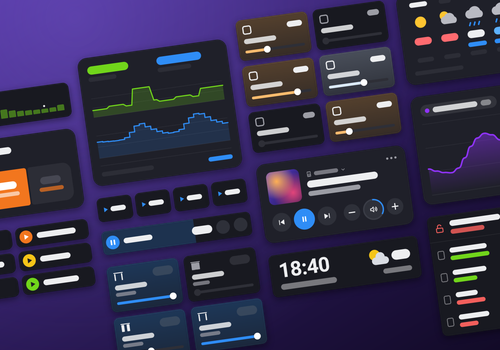
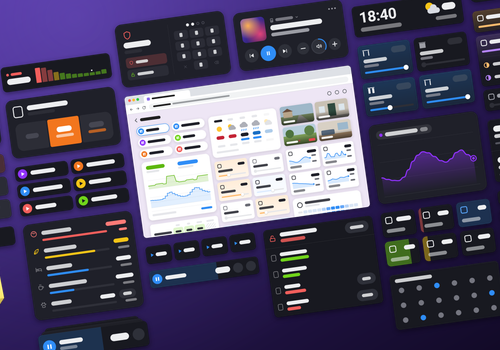
App Store images: a web dashboard in a browser, and more widgets
The collage gets a drawn browser window of a web dashboard in its middle
(light among the dark cards, so it reads as a web page even at 250 px),
with nine widgets of its own, and 31 widgets in all, up from 12.
dev/app-images.json's columns take rows of cards and the browser item.

diff --git a/test/app-images.test.ts b/test/app-images.test.ts
@@ -3,13 +3,18 @@ import { describe, expect, it } from 'vitest';
 
 // The App Store images are rendered from the widget previews by `npm run app-images` (scripts/app-images.mjs).
 const config = JSON.parse(readFileSync('dev/app-images.json', 'utf8'));
+// A column's item: a widget id, a row of ids, or the browser window with columns of its own (and maybe its own theme).
+type Item = string | string[] | { browser: string[][], span?: number, theme?: string };
+const previews = (config.columns as Item[][]).flat().flatMap(item => typeof item === 'string' || Array.isArray(item)
+  ? [item].flat().map(id => ({ id, theme: config.theme }))
+  : item.browser.flat().map(id => ({ id, theme: item.theme ?? config.theme })));
 
 describe('app store images', () => {
   it('are made from widgets that have a preview, each once', () => {
-    const ids: string[] = config.columns.flat();
+    const ids = previews.map(p => p.id);
     expect(ids.length).toBeGreaterThan(0);
     expect(new Set(ids).size).toBe(ids.length);
-    for (const id of ids) expect(existsSync(`widgets/${id}/preview-${config.theme}.png`), id).toBe(true);
+    for (const { id, theme } of previews) expect(existsSync(`widgets/${id}/preview-${theme}.png`), id).toBe(true);
     expect(config.background.stops.length).toBeGreaterThanOrEqual(2);
   });
 

diff --git a/.claude/rules/renders.md b/.claude/rules/renders.md
@@ -10,7 +10,7 @@ paths:
 # Renders (app images, previews, screenshots, clips, showcases)
 
 - Renders run headless Edge through `scripts/headless.mjs` (`EDGE`, `HEADLESS`, `freshProfile()`, `edge(args, {virtualTime})`: default `--virtual-time-budget=4000`, `null` for none; the icon download). They show made-up data on a fixed clock: **never put real device names or readings in them.** Every render is byte-identical between runs, except the live electricity chart's antialiasing (the electricity screenshot and the Home, Energy and Kitchen showcases). An endless CSS animation isn't (its phase varies): `screenshots.html` and `showcase.html` hold the Keypad's pulsing dot still (`.kp-dot.next`); do the same for a new one.
-- `npm run app-images` (wk-067): the three App Store PNGs (`assets/images/`, 250×175, 500×350, 1000×700) from the widget previews, with sharp, no Edge (`scripts/app-images.mjs`). `dev/app-images.json` sets the widgets and their order (`columns`), the previews' `theme`, `tilt`, `columnWidth` (a fraction of the image), `gap`/`stagger` (preview px) and the background: a gradient in the brand colour `#2A1958` (`stops`, evenly spaced, at a CSS-like `angle`) with a soft radial `glow` (centre and radius as fractions), drawn as an SVG by sharp. It replaced a blurred photo (`dev/hero.webp`) at the user's request (2026-10-18). Each card is cut to its opaque box (alpha ≥ 250, not `trim()`, which takes the shadow) plus 64 px of shadow and scaled to 800 px wide (≤ 1), the columns are centred and staggered, the layer rotated at full size, then scaled down once per size; it throws rather than scale a preview up. Same inputs, same bytes. `npm run previews` re-renders them when it rendered a preview they use. `test/app-images.test.ts` checks the config and the sizes.
+- `npm run app-images` (wk-067): the three App Store PNGs (`assets/images/`, 250×175, 500×350, 1000×700) from the widget previews, with sharp, no Edge (`scripts/app-images.mjs`). `dev/app-images.json` sets the widgets and their order (`columns`: each item a widget id, a row of ids side by side, or `{browser: [[ids]], span, theme}`, the drawn browser window of a web dashboard, `span` columns wide (2), 16:10, with those columns of cards on Plum, cut off at the bottom; its chrome drawn like the previews' text, bars and no words, colours from `dev/web-showcase.html`), the previews' `theme`, `tilt`, `columnWidth` (a fraction of the image), `gap`/`stagger` (preview px) and the background: a gradient in the brand colour `#2A1958` (`stops`, evenly spaced, at a CSS-like `angle`) with a soft radial `glow` (centre and radius as fractions), drawn as an SVG by sharp. It replaced a blurred photo (`dev/hero.webp`) at the user's request (2026-10-18). The browser and more widgets (23 readable, 31 placed) came at the user's request (2026-10-25): the browser light among the dark cards, so it reads as a web page even in the 250 px image; a column is as wide as its widest item, and a row's cards line up toward the column's middle, so the rows above and below the browser close up to it. Homey's guidelines (read 2026-10-25) forbid the Homey logo, name or device, not text or UI. Each card is cut to its opaque box (alpha ≥ 250, not `trim()`, which takes the shadow) plus 64 px of shadow and scaled to 800 px wide (≤ 1), the columns are centred and staggered, the layer rotated at full size, then scaled down once per size; it throws rather than scale a preview up. Same inputs, same bytes. `npm run previews` re-renders them when it rendered a preview they use. `test/app-images.test.ts` checks the config and the sizes.
 - `npm run previews [-- qa-dark …]`: the widget preview PNGs from `dev/widget-previews.html` (the "Widget Previews" Claude Design project; `?p=elec-dark` shows one frame), plus the README's `docs/previews/<widget>-<light|dark>.png` (cropped to the card with sharp). A new widget needs an entry in the frame-id prefix → widget map in `scripts/render-previews.mjs`. The README overview isn't a table (GitHub's `max-width: 100%` collapsed the image column on phones): each widget is one `<p>` with a 120 px `<picture>` floated left (`align="left"`), the bold linked name, the description and `<br clear="left">`.
 - `npm run screenshots [-- thermostat …]`: `docs/screenshots/*.png` from the `<section class="shot">` ids of `dev/screenshots.html`: the real widgets in Homey's dark mode, 358 px (a phone's widget width) at 3x, no title, transparent. The data is the showcase's house; `dev/mock-dashboard.js` picks widgets (`findWidget(type, n)`) and mounts them through `MOUNT` (`dev/showcase-mount.js`). It downloads the library icons into `temp/screenshot-icons.js`.
 - `npm run clips [-- lights stack]`: the README clips `docs/clips/<id>.webp` (`lights`, `stack`, `media`, `timers`, `sensordots`, `curtains`, `rename`, `keypad`; animated WebP plays inline on GitHub, an MP4 would be a link); they replaced the Light Controls, Activity Dots, Timers, Curtains and Media screenshots. The Keypad's (2026-10-25, the user's ask: the screenshot's made-up alarm on a tap, a wrong code, the right one 1234, Arm without a code; `grow`) heads its section, and its screenshot (the keypad always shown) moved down to the paragraph on Always. `scripts/render-clips.mjs` drives `dev/clips.html?c=<id>` over DevTools (`--remote-debugging-port`, Node's `WebSocket`) with real touch events (`Input.dispatchTouchEvent`), screenshots as fast as they come (~16/s) and joins them with sharp 0.34+ (`join: {animated: true}`). The page has simulated devices (the clock runs on), a drawn finger and a callout on top of the widget (the user's choice; keep its text under ~40 characters).
